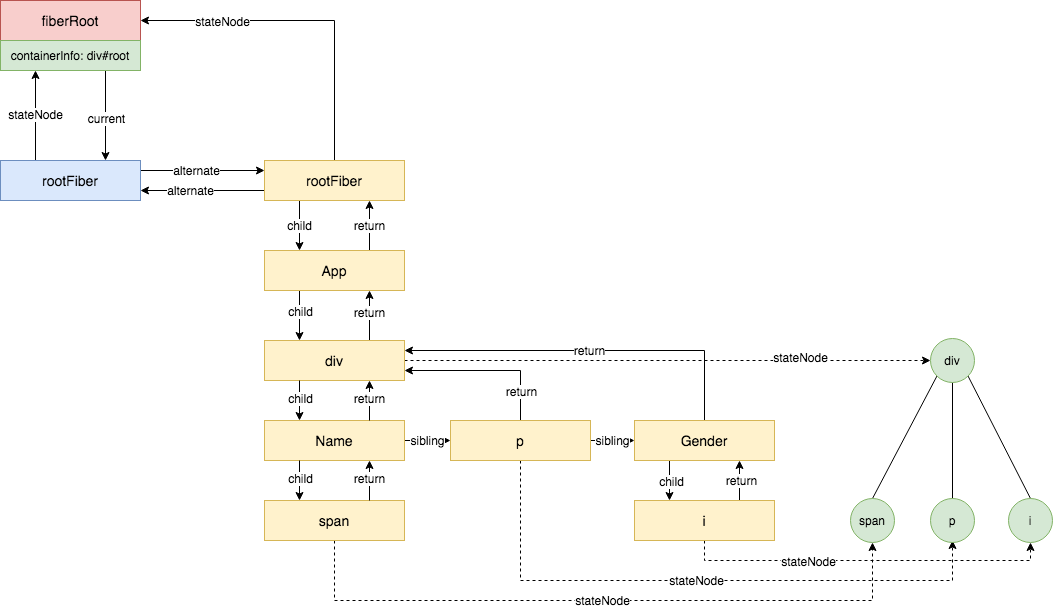
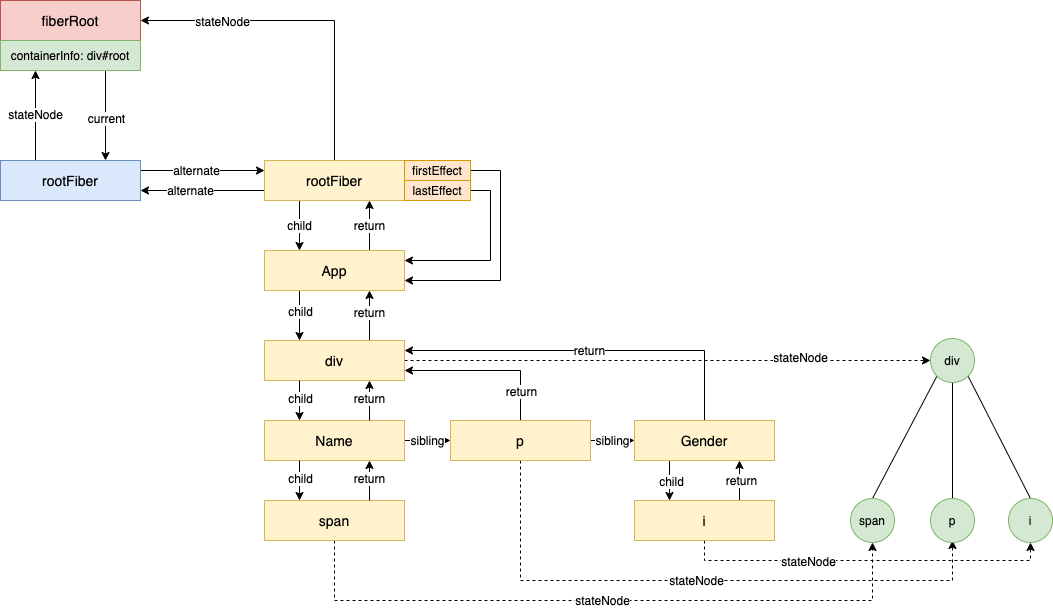
react 源码解读首次渲染

diff --git a/source/_posts/react-source-1.md b/source/_posts/react-source-1.md
@@ -59,7 +59,7 @@ function legacyRenderSubtreeIntoContainer(
       forceHydrate
     )
     fiberRoot = root._internalRoot
-    if (typeof callback === "function") {
+    if (typeof callback === 'function') {
       const originalCallback = callback
       callback = function () {
         const instance = getPublicRootInstance(fiberRoot)
@@ -73,7 +73,7 @@ function legacyRenderSubtreeIntoContainer(
   } else {
     // 更新
     fiberRoot = root._internalRoot
-    if (typeof callback === "function") {
+    if (typeof callback === 'function') {
       const originalCallback = callback
       callback = function () {
         const instance = getPublicRootInstance(fiberRoot)
@@ -219,7 +219,7 @@ export function updateContainer(
   const update = createUpdate(expirationTime, suspenseConfig)
   // Caution: React DevTools currently depends on this property
   // being called "element".
-  update.payload = { element }
+  update.payload = {element}
 
   callback = callback === undefined ? null : callback
   if (callback !== null) {
@@ -359,8 +359,8 @@ function renderRootSync(root, expirationTime) {
     // This is a sync render, so we should have finished the whole tree.
     invariant(
       false,
-      "Cannot commit an incomplete root. This error is likely caused by a " +
-        "bug in React. Please file an issue."
+      'Cannot commit an incomplete root. This error is likely caused by a ' +
+        'bug in React. Please file an issue.'
     )
   }
 
@@ -704,7 +704,7 @@ case HostComponent:
   workInProgress.stateNode = instance;
 ```
 
-执行完后，我们的结构如下所示：
+执行完后，我们的结构如下所示（我们用绿色的圆来表示真实 dom）：
 
 ![](react-source-1/6.png)
 
@@ -806,6 +806,32 @@ updateHostContainer = function (workInProgress: Fiber) {
 
 看来几乎没有做什么事情，到这我们的 `render` 阶段就结束了，最后的结构如下所示：
 ![](react-source-1/10.png)
+
+这里有点要说明的是在处理 `App` 这个 `fiber` 的时候，因为 `App` 的 `effectTag` （Placement 2 & Update 4 & Passive 512）大于 `PerformedWork` （值为 1），所以代码会走到这里：
+
+```javascript
+// If this fiber had side-effects, we append it AFTER the children's
+// side-effects. We can perform certain side-effects earlier if needed,
+// by doing multiple passes over the effect list. We don't want to
+// schedule our own side-effect on our own list because if end up
+// reusing children we'll schedule this effect onto itself since we're
+// at the end.
+const effectTag = completedWork.effectTag
+
+// Skip both NoWork and PerformedWork tags when creating the effect
+// list. PerformedWork effect is read by React DevTools but shouldn't be
+// committed.
+if (effectTag > PerformedWork) {
+  if (returnFiber.lastEffect !== null) {
+    returnFiber.lastEffect.nextEffect = completedWork
+  } else {
+    returnFiber.firstEffect = completedWork
+  }
+  returnFiber.lastEffect = completedWork
+}
+```
+
+所以，`rootFiber` 的 `firstEffect` 和 `lastEffect` 都会指向 `App`。后面分析更新过程的时候会再详细讨论这里。
 
 ## commit
 
@@ -934,18 +960,12 @@ shouldFireAfterActiveInstanceBlur = false
 nextEffect = firstEffect
 do {
   if (__DEV__) {
-    invokeGuardedCallback(null, commitBeforeMutationEffects, null)
-    if (hasCaughtError()) {
-      invariant(nextEffect !== null, "Should be working on an effect.")
-      const error = clearCaughtError()
-      captureCommitPhaseError(nextEffect, error)
-      nextEffect = nextEffect.nextEffect
-    }
+    ...
   } else {
     try {
       commitBeforeMutationEffects()
     } catch (error) {
-      invariant(nextEffect !== null, "Should be working on an effect.")
+      invariant(nextEffect !== null, 'Should be working on an effect.')
       captureCommitPhaseError(nextEffect, error)
       nextEffect = nextEffect.nextEffect
     }
@@ -962,7 +982,7 @@ if (enableProfilerTimer) {
 }
 ```
 
-before mutation 阶段主要是调用了 `commitBeforeMutationEffects` 方法：
+`before mutation` 阶段主要是调用了 `commitBeforeMutationEffects` 方法：
 
 ```javascript
 function commitBeforeMutationEffects() {
@@ -980,6 +1000,7 @@ function commitBeforeMutationEffects() {
       setCurrentDebugFiberInDEV(nextEffect)
 
       const current = nextEffect.alternate
+      // 调用getSnapshotBeforeUpdate
       commitBeforeMutationEffectOnFiber(current, nextEffect)
 
       resetCurrentDebugFiberInDEV()
@@ -1000,26 +1021,73 @@ function commitBeforeMutationEffects() {
 }
 ```
 
-`render` 流程结束后，我们来到 `commit` 流程：
+因为 `App` 中 `effectTag` 为 `1000000111`，包括了 `Passive`，所以这里会执行：
 
 ```javascript
-function commitRoot(root) {
-  const renderPriorityLevel = getCurrentPriorityLevel()
-  runWithPriority(
-    ImmediateSchedulerPriority,
-    commitRootImpl.bind(null, root, renderPriorityLevel)
-  )
+scheduleCallback(NormalPriority, () => {
+  flushPassiveEffects()
   return null
+})
+```
+
+这里主要是对 `useEffect` 进行[异步调用](https://react.iamkasong.com/renderer/beforeMutation.html#%E8%B0%83%E5%BA%A6useeffect)。
+
+### mutation 阶段
+
+`mutation` 阶段主要是执行了 `commitMutationEffects` 这个方法：
+
+```javascript
+function commitMutationEffects(root: FiberRoot, renderPriorityLevel) {
+  // TODO: Should probably move the bulk of this function to commitWork.
+  while (nextEffect !== null) {
+    setCurrentDebugFiberInDEV(nextEffect)
+
+    const effectTag = nextEffect.effectTag
+
+    ...
+
+    // The following switch statement is only concerned about placement,
+    // updates, and deletions. To avoid needing to add a case for every possible
+    // bitmap value, we remove the secondary effects from the effect tag and
+    // switch on that value.
+    const primaryEffectTag =
+      effectTag & (Placement | Update | Deletion | Hydrating)
+    switch (primaryEffectTag) {
+      ...
+      case PlacementAndUpdate: {
+        // Placement
+        commitPlacement(nextEffect)
+        // Clear the "placement" from effect tag so that we know that this is
+        // inserted, before any life-cycles like componentDidMount gets called.
+        nextEffect.effectTag &= ~Placement
+
+        // Update
+        const current = nextEffect.alternate
+        commitWork(current, nextEffect)
+        break
+      }
+      ...
+    }
+  }
 }
 ```
 
+执行完 `commitPlacement(nextEffect)` 后，整棵 dom 树就被插入到了 `<div id='root'></div>` 之中。
+
+接下来执行 `commitWork(current, nextEffect)`，这里会执行 `useLayoutEffect` 上一次的销毁函数，详见[React 技术揭秘](https://react.iamkasong.com/renderer/mutation.html#placement-effect)。
+
+`mutation 阶段完成后`，会执行：
+
 ```javascript
-function placeSingleChild(newFiber: Fiber): Fiber {
-  // This is simpler for the single child case. We only need to do a
-  // placement for inserting new children.
-  if (shouldTrackSideEffects && newFiber.alternate === null) {
-    newFiber.effectTag = Placement
-  }
-  return newFiber
-}
+root.current = finishedWork
 ```
+
+完成 `fiberRootNode` 指向的 `current Fiber` 树。
+
+### layout 阶段 / 首尾阶段
+
+首次渲染这里没有什么值得特别说明的地方，参考 [React 技术揭秘第四章](https://react.iamkasong.com/renderer/prepare.html) 即可。
+
+# 总结
+
+本文大部分内容都参考自 [React 技术揭秘](https://react.iamkasong.com/)，只是通过举例走读了一遍首次渲染流程，加深了下自己的理解。
